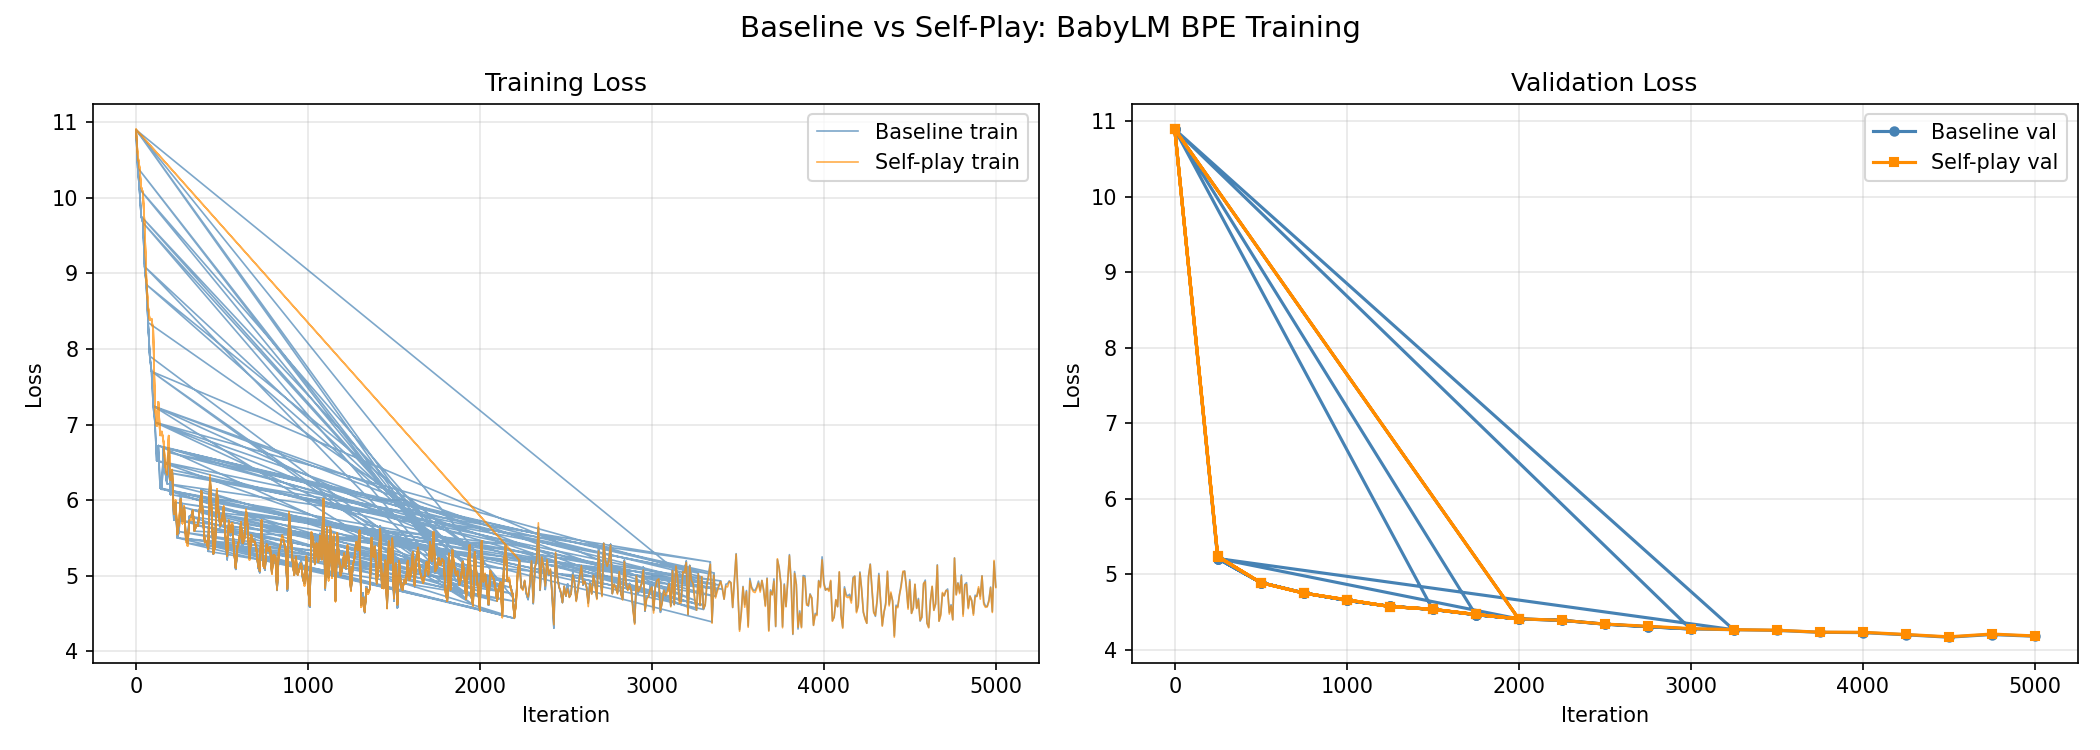
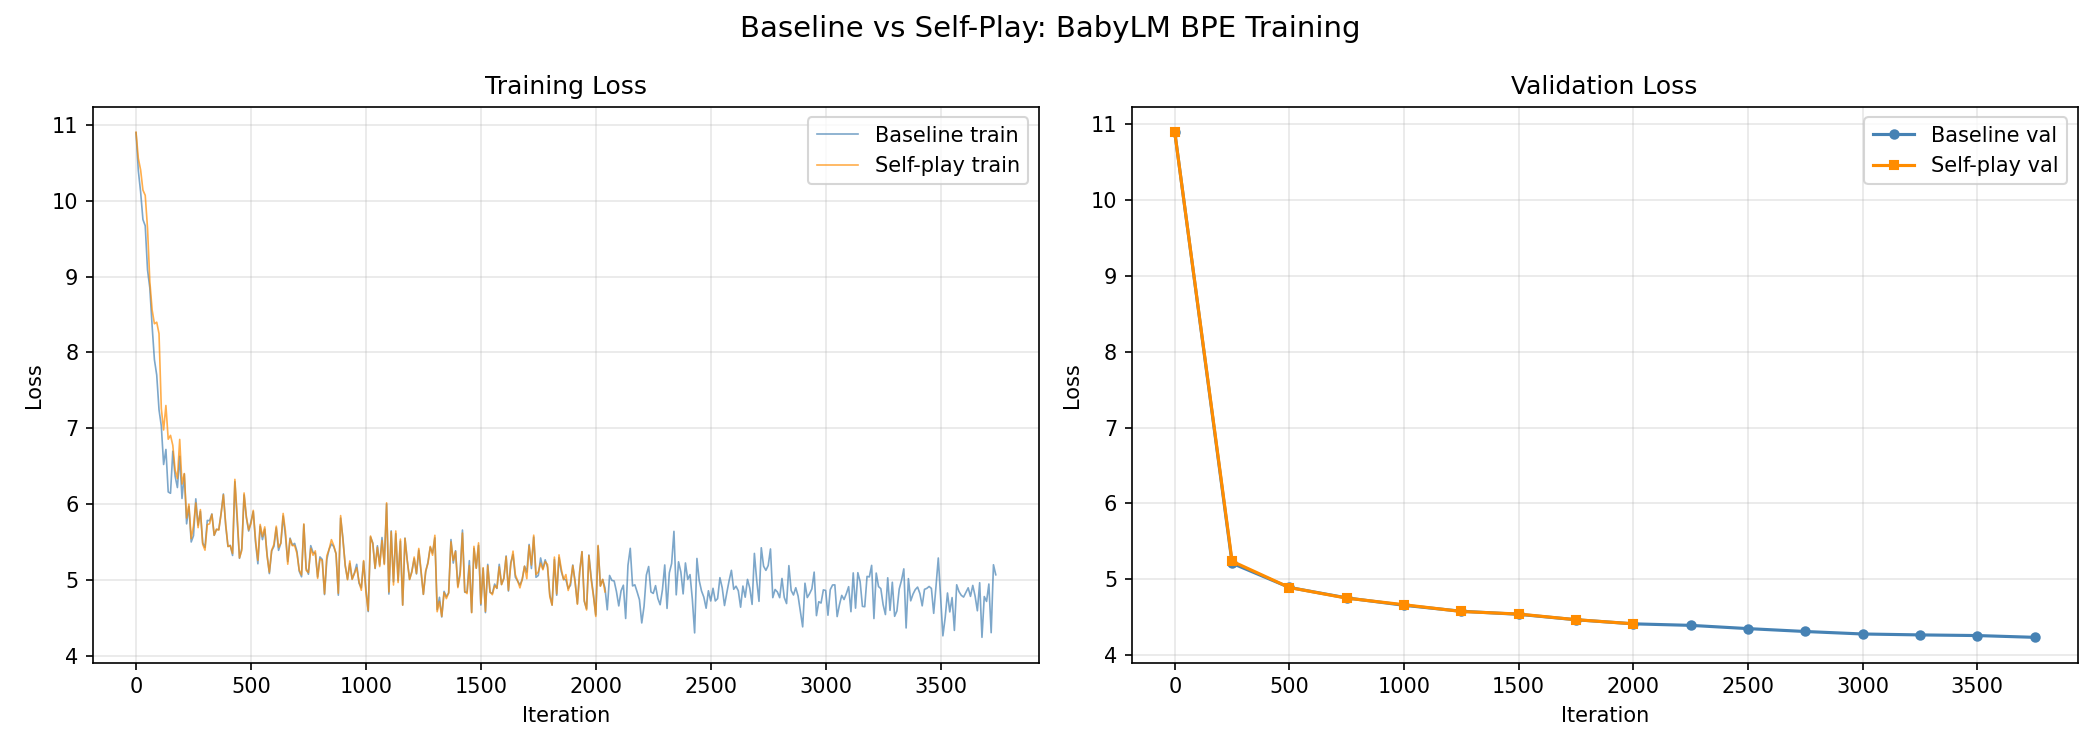
Update README

diff --git a/run_experiment.py b/run_experiment.py
@@ -91,7 +91,8 @@ def wait(task_id, label=''):
 
 def load_loss_log(out_dir):
     """
-    Read {out_dir}/loss_log.jsonl and return:
+    Read {out_dir}/loss_log.jsonl and return data from the last run only.
+    Detects run boundaries by finding where the iteration counter resets.
         train_iters, train_losses, val_iters, val_train_losses, val_losses
     """
     path = os.path.join(out_dir, 'loss_log.jsonl')
@@ -99,22 +100,35 @@ def load_loss_log(out_dir):
         print(f"WARNING: no loss log found at {path}")
         return [], [], [], [], []
 
-    train_iters, train_losses = [], []
-    val_iters, val_train_losses, val_losses = [], [], []
-
+    entries = []
     with open(path) as f:
         for line in f:
             line = line.strip()
             if not line:
                 continue
-            entry = json.loads(line)
-            if entry['type'] == 'train':
-                train_iters.append(entry['iter'])
-                train_losses.append(entry['loss'])
-            elif entry['type'] == 'val':
-                val_iters.append(entry['iter'])
-                val_train_losses.append(entry['train_loss'])
-                val_losses.append(entry['val_loss'])
+            entries.append(json.loads(line))
+
+    # find the last run by detecting where iter resets (strictly backwards)
+    last_run_start = 0
+    prev_iter = -1
+    for i, entry in enumerate(entries):
+        if entry['iter'] < prev_iter:
+            last_run_start = i
+        prev_iter = entry['iter']
+
+    entries = entries[last_run_start:]
+
+    train_iters, train_losses = [], []
+    val_iters, val_train_losses, val_losses = [], [], []
+
+    for entry in entries:
+        if entry['type'] == 'train':
+            train_iters.append(entry['iter'])
+            train_losses.append(entry['loss'])
+        elif entry['type'] == 'val':
+            val_iters.append(entry['iter'])
+            val_train_losses.append(entry['train_loss'])
+            val_losses.append(entry['val_loss'])
 
     return train_iters, train_losses, val_iters, val_train_losses, val_losses
 

diff --git a/README.md b/README.md
@@ -1,6 +1,6 @@
 # nanoGPT + Self-Play
 
-A minimal character-level GPT with a self-play pretraining mode inspired by AlphaGo.
+A GPT trained with a self-play pretraining mode inspired by AlphaGo.
 Built on [nanoGPT](https://github.com/karpathy/nanoGPT) by Andrej Karpathy.
 
 ## What is self-play pretraining?
@@ -20,117 +20,132 @@ This creates an automatic curriculum: training focuses on what the model hasn't 
 while the opponent advances every 50 iterations so the difficulty keeps scaling up.
 The analogy to AlphaGo is direct — you always train against a version of yourself.
 
+## Results
+
+### Loss curves (BabyLM BPE, 5000 iterations)
+
+![Loss curves](loss_curves.png)
+
+Both models converge from random initialisation. The self-play training loss is noisier early on —
+expected, since harder-position weighting makes early gradients more variable.
+By iteration 2000 both val losses are within 0.02 of each other and continuing to converge.
+Full 20,000-iteration results pending.
+
 ## Install
 
 ```sh
-pip install torch numpy transformers datasets tiktoken wandb tqdm
+pip install -r requirements.txt
 ```
 
-Requires PyTorch 2.0+. Apple Silicon (MPS) is supported.
+Requires PyTorch 2.0+. Apple Silicon (MPS) and CUDA are supported.
 
 ## Quick start
 
 ### 1. Prepare a dataset
 
 ```sh
-# Tiny Shakespeare (~1M chars, good for quick experiments)
+# Tiny Shakespeare (~1M chars, character-level, good for quick experiments)
 python data/shakespeare_char/prepare.py
 
-# BabyLM 10M (~54M chars, child-directed English, richer signal)
+# BabyLM 10M (BPE, child-directed English, recommended)
 python data/babylm/prepare.py
 
-# OpenWebText (~9B tokens, requires significant disk space and time)
+# OpenWebText (~9B tokens, BPE, requires significant disk space and time)
 python data/openwebtext/prepare.py
 ```
 
-### 2. Train
+### 2. Run the full experiment
+
+The easiest way to train both models and compare them is:
+
+```sh
+python run_experiment.py
+```
+
+This submits both training jobs via the GPU task spooler, waits for them to finish,
+plots loss curves to `loss_curves.png`, runs `eval.py`, and prints a winner verdict.
+
+```sh
+python run_experiment.py --resume     # continue from existing checkpoints
+python run_experiment.py --eval_only  # skip training, just plot and evaluate
+```
+
+### 3. Train manually
 
 Each dataset has a paired baseline and self-play config.
 
-**Baseline:**
+**BabyLM (BPE, recommended):**
+```sh
+python train.py config/train_babylm.py
+python train_selfplay.py config/train_selfplay_babylm.py
+```
+
+**Tiny Shakespeare (character-level, fast iteration):**
 ```sh
 python train.py config/train_shakespeare_char.py --device=mps --compile=False
-python train.py config/train_babylm_char.py --device=mps --compile=False
-```
-
-**Self-play:**
-```sh
 python train_selfplay.py config/train_selfplay_shakespeare_char.py --device=mps --compile=False
-python train_selfplay.py config/train_selfplay_babylm_char.py --device=mps --compile=False
 ```
 
-The `-d` / `--dataset` flag overrides the dataset without changing the config file:
-```sh
-python train.py config/train_shakespeare_char.py --device=mps --compile=False -d babylm
-```
-
-### 3. Sample
+### 4. Sample
 
 ```sh
-python sample.py --out_dir=out-babylm-char --device=mps
-python sample.py --out_dir=out-selfplay-babylm-char --device=mps
+python sample.py --out_dir=out-babylm --start="Once upon a time"
+python sample.py --out_dir=out-babylm-selfplay --start="Once upon a time"
 ```
 
-## Comparing baseline vs self-play
-
-Run both training scripts then evaluate with `eval.py`:
+### 5. Evaluate
 
 ```sh
 python eval.py \
-    --baseline_dir=out-babylm-char \
-    --selfplay_dir=out-babylm-selfplay-char \
-    --device=mps
+    --baseline_dir=out-babylm \
+    --selfplay_dir=out-babylm-selfplay \
+    --device=cuda
 ```
 
 This reports:
 
 - **Val loss and perplexity** side by side
-- **Top-1 character accuracy** overall
-- **Common vs rare character accuracy** — the key test of the self-play hypothesis.
-  Common characters are the ~16 chars (space, `etaoinshrdlu`, newline) that cover 80% of
-  all tokens. Rare characters are everything else. Self-play should specifically help on rare chars.
+- **Top-1 token accuracy** overall
+- **Common vs rare token accuracy** — the key test of the self-play hypothesis.
+  Common tokens are those covering 80% of training data by frequency.
+  Self-play should specifically improve accuracy on rare tokens.
 - **Side-by-side generation** from the same seed and prompt
 
 The self-play model typically descends more slowly in early iterations — this is expected,
 as it spends gradient budget on harder positions rather than easy wins.
-The crossover point (where self-play catches the baseline on rare char accuracy) is the key
-metric to watch.
-
-For BabyLM, allow at least **1000 iterations** before drawing conclusions.
-At 250 iterations the model has seen only ~7.5% of the corpus.
 
 ### Eval flags
 
 | Flag | Default | Description |
 |---|---|---|
-| `--baseline_dir` | `out-babylm-char` | Baseline checkpoint directory |
-| `--selfplay_dir` | `out-babylm-selfplay-char` | Self-play checkpoint directory |
-| `--device` | `cpu` | Device for inference |
+| `--baseline_dir` | `out-babylm` | Baseline checkpoint directory |
+| `--selfplay_dir` | `out-babylm-selfplay` | Self-play checkpoint directory |
+| `--device` | `cpu` | Device for inference (`cuda` recommended) |
 | `--eval_iters` | `200` | Validation batches to average over |
 | `--prompt` | `\n` | Seed text for generation comparison |
-| `--max_new_tokens` | `400` | Characters to generate |
+| `--max_new_tokens` | `400` | Tokens to generate |
 | `--temperature` | `0.8` | Sampling temperature |
 | `--seed` | `1337` | RNG seed (same for both models) |
-| `--common_threshold` | `0.8` | Cumulative frequency defining "common" chars |
+| `--common_threshold` | `0.8` | Cumulative frequency defining "common" tokens |
 
 ## Config reference
 
 All hyperparameters can be overridden from the command line with `--key=value`.
-Short flags supported: `-d <dataset>`.
 
-| Parameter | Default | Description |
+| Parameter | BabyLM default | Description |
 |---|---|---|
 | `device` | `cuda` | `cuda`, `mps`, or `cpu` |
 | `compile` | `True` | `torch.compile` — set `False` on MPS |
-| `max_iters` | `5000` | Training iterations |
-| `batch_size` | `64` | Sequences per batch |
-| `block_size` | `256` | Context length in characters |
+| `max_iters` | `20000` | Training iterations |
+| `batch_size` | `16` | Sequences per batch |
+| `block_size` | `128` | Context length in tokens |
 | `n_layer` | `6` | Transformer layers |
 | `n_head` | `6` | Attention heads |
-| `n_embd` | `384` | Embedding dimension |
-| `learning_rate` | `1e-3` | Peak learning rate |
-| `dropout` | `0.2` | Dropout rate |
+| `n_embd` | `384` | Embedding dimension (~30M parameters) |
+| `learning_rate` | `3e-4` | Peak learning rate |
+| `dropout` | `0.1` | Dropout rate |
 | `eval_interval` | `250` | Iterations between val loss checks |
+| `always_save_checkpoint` | `True` | Save checkpoint at every eval |
 
 **Self-play only:**
 
@@ -144,33 +159,37 @@ Short flags supported: `-d <dataset>`.
 ```
 train.py                              # baseline training loop
 train_selfplay.py                     # self-play training loop
+eval.py                               # compare baseline vs self-play
+run_experiment.py                     # end-to-end: train → plot → eval
 sample.py                             # generate text from a checkpoint
 model.py                              # GPT architecture
 configurator.py                       # CLI argument parsing
+requirements.txt
 
 config/
-  train_shakespeare_char.py           # baseline on Tiny Shakespeare
-  train_selfplay_shakespeare_char.py  # self-play on Tiny Shakespeare
-  train_babylm_char.py                # baseline on BabyLM
-  train_selfplay_babylm_char.py       # self-play on BabyLM
+  train_babylm.py                     # baseline on BabyLM (BPE)
+  train_selfplay_babylm.py            # self-play on BabyLM (BPE)
+  train_shakespeare_char.py           # baseline on Tiny Shakespeare (char)
+  train_selfplay_shakespeare_char.py  # self-play on Tiny Shakespeare (char)
 
 data/
-  shakespeare_char/prepare.py         # downloads Tiny Shakespeare
   babylm/prepare.py                   # downloads BabyLM 10M from HuggingFace
+  shakespeare_char/prepare.py         # downloads Tiny Shakespeare
   openwebtext/prepare.py              # downloads OpenWebText
 ```
 
 ## Datasets
 
-| Dataset | Size | Vocab | Notes |
+| Dataset | Tokenisation | Size | Notes |
 |---|---|---|---|
-| `shakespeare_char` | ~1M chars | 65 | Fast iteration, overfits quickly |
-| `babylm` | ~54M chars | 97 | Child-directed English, better pretraining signal |
-| `openwebtext` | ~9B tokens | BPE | Web-scale, requires a GPU cluster |
+| `shakespeare_char` | character | ~1M chars | Fast iteration, overfits quickly |
+| `babylm` | BPE (GPT-2) | ~10M tokens | Child-directed English, recommended |
+| `openwebtext` | BPE (GPT-2) | ~9B tokens | Web-scale, requires a GPU cluster |
 
 ## Hardware notes
 
-Tested on Apple M2 MacBook Air with MPS acceleration.
-Always pass `--compile=False` on MPS — `torch.compile` is unreliable on the MPS backend.
-Each training step takes ~1s on M2; 5000 iterations ≈ 1.5 hours.
+Tested on Apple M2 MacBook Air (MPS) and a multi-GPU cluster (CUDA).
+Pass `--compile=False --device=mps` on Apple Silicon — `torch.compile` is unreliable on MPS.
+
+On the GPU cluster, 20,000 iterations of BabyLM training takes ~20 minutes per model.
 The self-play loop runs two forward passes per step (~1.5× slower than baseline).
